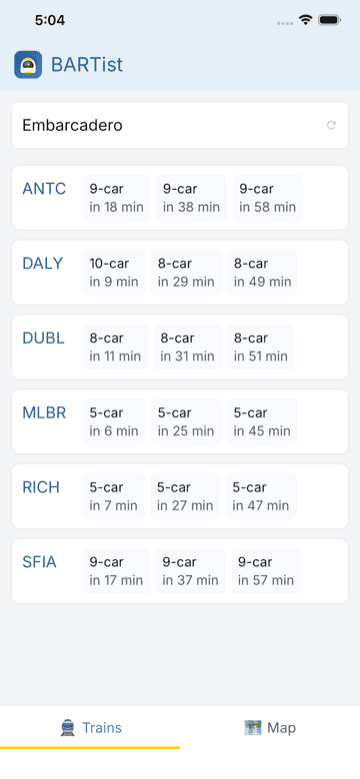
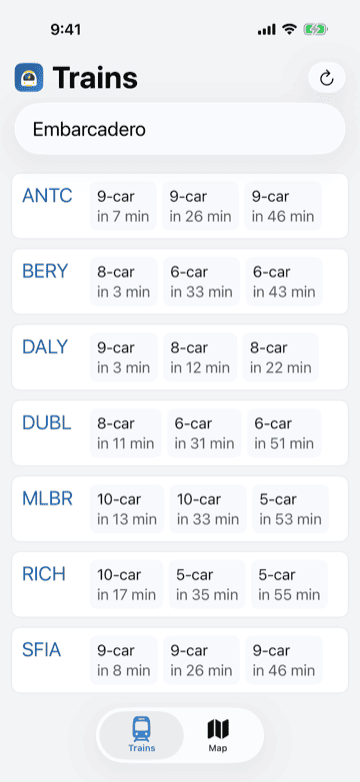
New ios native post, rearrange assets in previous post

diff --git a/public/ios-native/index.html b/public/ios-native/index.html
@@ -1,0 +1,44 @@
+<!DOCTYPE html>
+<html lang="en">
+<head>
+  <meta charset="utf-8">
+  <meta name="viewport" content="width=device-width, initial-scale=1">
+  <meta name="theme-color" content="#e3eef8">
+  <title>Native iOS app, version 1.1</title>
+  <link rel="icon" href="/assets/favicon.svg" type="image/svg+xml">
+  <link rel="stylesheet" href="/assets/style.css">
+</head>
+<body>
+  <div class="app">
+    <header class="app-header">
+      <a class="brand" href="/">
+        <img class="brand-icon" src="/assets/bartist-icon.svg" width="32" height="32" alt="">
+        <span class="site-title">BARTist</span>
+      </a>
+    </header>
+    <main>
+<article>
+<h1>Native iOS app, version 1.1</h1>
+<time datetime="2026-10-15">2026-10-15</time>
+<p>BARTist version 1.1 is now an iOS native app implemented in Swift.</p>
+<p><a class="app-store" href="https://apps.apple.com/us/app/bartist/id6816738607"><img src="/assets/download-on-the-app-store.svg" alt="Download on the App Store" width="120" height="40"></a></p>
+
+<p>The <a href="../ios-app/">first App Store release</a> was written using the cross platform <a href="https://tauri.app/">Tauri</a> framework. It worked well, but fell just a bit short of other native apps - pull to refresh, tabs, pinch to zoom were just a bit clunkier and less fitting. It&#39;s time for a real native iOS app. Given that BARTist is simple, so was the rewrite.</p>
+<p>The trains tab provides the same dense view of real time train departure information grouped by destination. Note the native tabs and buttons. Also, it now supports the same pull to refresh feel you expect in iOS apps:</p>
+<p><img src="./bartist-trains-ios-native.png" alt="Train departures at Embarcadero"></p>
+<p>Station picker also has a native iOS look and now supports gestures for closing the selection modal:</p>
+<p><img src="./bartist-stations-ios-native.png" alt="Station picker"></p>
+<p>And the system map, still with the day/night toggle, gives you a buttery smooth pinch to zoom:</p>
+<p><img src="./bartist-map-ios-native.png" alt="BART system map"></p>
+<p>The same app, better UX. Still no ads, accounts, subscriptions, tracking, or analytics. It&#39;s open source and the <a href="https://github.com/unix1/bartist">code is on GitHub</a>. Enjoy!</p>
+
+</article>
+    </main>
+    <footer class="app-footer">
+      <p>© BARTist</p>
+      <p><a href="/privacy/">privacy</a></p>
+      <p class="credit"><a href="https://blug.blog">blug.blog</a></p>
+    </footer>
+  </div>
+</body>
+</html>

diff --git a/public/index.html b/public/index.html
@@ -18,19 +18,20 @@
     </header>
     <main>
 <section class="listing-intro">
-<p>BARTist is an app for real-time BART train departure times. Now available on iPhone.</p>
+<p>BARTist is an app for real-time BART train departure times for iPhone.</p>
 <p><a class="app-store" href="https://apps.apple.com/us/app/bartist/id6816738607"><img src="/assets/download-on-the-app-store.svg" alt="Download on the App Store" width="120" height="40"></a></p>
 
 <div class="screenshot-row">
-<a href="/bartist-trains.png"><img src="/bartist-trains-sm.png" alt="Train departures at Embarcadero" width="360" height="779"></a>
-<a href="/bartist-stations.png"><img src="/bartist-stations-sm.png" alt="Station picker" width="360" height="779"></a>
-<a href="/bartist-map.png"><img src="/bartist-map-sm.png" alt="BART system map" width="360" height="779"></a>
+<a href="/bartist-trains.png"><img src="/bartist-trains-sm.png" alt="Train departures at Embarcadero" width="360" height="782"></a>
+<a href="/bartist-stations.png"><img src="/bartist-stations-sm.png" alt="Station picker" width="360" height="782"></a>
+<a href="/bartist-map.png"><img src="/bartist-map-sm.png" alt="BART system map" width="360" height="782"></a>
 </div>
 
 <p>BARTist is open source. Contributions are welcome! Visit the <a href="https://github.com/unix1/bartist">BARTist GitHub repo</a>.</p>
 </section>
 <h1>News</h1>
 <ul class="post-list">
+  <li><a href="ios-native/"><time datetime="2026-10-15">2026-10-15</time> <span>Native iOS app, version 1.1</span></a></li>
   <li><a href="ios-app/"><time datetime="2026-10-08">2026-10-08</time> <span>BARTist is on the App Store!</span></a></li>
   <li><a href="history-android-qml/"><time datetime="2026-09-28">2026-09-28</time> <span>History: Android QML app</span></a></li>
   <li><a href="history-ubuntu-touch/"><time datetime="2026-09-27">2026-09-27</time> <span>History: Ubuntu Touch app</span></a></li>

diff --git a/public/ios-app/index.html b/public/ios-app/index.html
@@ -24,15 +24,15 @@
 <p><a class="app-store" href="https://apps.apple.com/us/app/bartist/id6816738607"><img src="/assets/download-on-the-app-store.svg" alt="Download on the App Store" width="120" height="40"></a></p>
 
 <p>It does what I want on my commute: display live BART train departure times. Pick a station, see next few trains by destination with car length and minutes until each departure.</p>
-<p><img src="/bartist-trains.png" alt="Train departures at Embarcadero"></p>
+<p><img src="./bartist-trains-ios.png" alt="Train departures at Embarcadero"></p>
 <p>What do I mean by being back? Read its history.</p>
 <p>First, I <a href="../history-ubuntu-touch/">wrote it for Ubuntu Touch</a> but then Canonical shut down their entire mobile ecosystem.</p>
 <p>Later I <a href="../history-android-qml/">rewrote it for Android</a> using QML/QtQuick but after some time Google pulled it from Play Store for a missed minor OpenSSL patch.</p>
 <p>And now BARTist has its third home on Apple&#39;s App Store, staying true to its original UX.</p>
 <p>This is the station picker on iPhone.</p>
-<p><img src="/bartist-stations.png" alt="Station picker"></p>
+<p><img src="./bartist-stations-ios.png" alt="Station picker"></p>
 <p>And here is the system map, with the day/night toggle for respective service coverage.</p>
-<p><img src="/bartist-map.png" alt="BART system map"></p>
+<p><img src="./bartist-map-ios.png" alt="BART system map"></p>
 <p>It uses <a href="https://www.bart.gov/schedules/developers/api">BART&#39;s official API</a>. No ads, accounts, subscriptions, tracking, or analytics. The <a href="https://github.com/unix1/bartist">code is on GitHub</a>. Feedback and contributions are welcome.</p>
 
 </article>

diff --git a/scripts/config.js b/scripts/config.js
@@ -2,14 +2,14 @@ export const SITE_HEADER = "BARTist";
 export const SITE_FOOTER = "© BARTist";
 export const LISTING_HEADING = "News";
 // Markdown shown above the post list on the home page. Empty string omits it.
-export const LISTING_INTRO = `BARTist is an app for real-time BART train departure times. Now available on iPhone.
+export const LISTING_INTRO = `BARTist is an app for real-time BART train departure times for iPhone.
 
 <p><a class="app-store" href="https://apps.apple.com/us/app/bartist/id6816738607"><img src="/assets/download-on-the-app-store.svg" alt="Download on the App Store" width="120" height="40"></a></p>
 
 <div class="screenshot-row">
-<a href="/bartist-trains.png"><img src="/bartist-trains-sm.png" alt="Train departures at Embarcadero" width="360" height="779"></a>
-<a href="/bartist-stations.png"><img src="/bartist-stations-sm.png" alt="Station picker" width="360" height="779"></a>
-<a href="/bartist-map.png"><img src="/bartist-map-sm.png" alt="BART system map" width="360" height="779"></a>
+<a href="/bartist-trains.png"><img src="/bartist-trains-sm.png" alt="Train departures at Embarcadero" width="360" height="782"></a>
+<a href="/bartist-stations.png"><img src="/bartist-stations-sm.png" alt="Station picker" width="360" height="782"></a>
+<a href="/bartist-map.png"><img src="/bartist-map-sm.png" alt="BART system map" width="360" height="782"></a>
 </div>
 
 BARTist is open source. Contributions are welcome! Visit the [BARTist GitHub repo](https://github.com/unix1/bartist).`;

diff --git a/public/ios-native/index.md b/public/ios-native/index.md
@@ -1,0 +1,24 @@
+---
+title: Native iOS app, version 1.1
+date: 2026-10-15
+---
+
+BARTist version 1.1 is now an iOS native app implemented in Swift.
+
+<p><a class="app-store" href="https://apps.apple.com/us/app/bartist/id6816738607"><img src="/assets/download-on-the-app-store.svg" alt="Download on the App Store" width="120" height="40"></a></p>
+
+The [first App Store release](../ios-app/) was written using the cross platform [Tauri](https://tauri.app/) framework. It worked well, but fell just a bit short of other native apps - pull to refresh, tabs, pinch to zoom were just a bit clunkier and less fitting. It's time for a real native iOS app. Given that BARTist is simple, so was the rewrite.
+
+The trains tab provides the same dense view of real time train departure information grouped by destination. Note the native tabs and buttons. Also, it now supports the same pull to refresh feel you expect in iOS apps:
+
+![Train departures at Embarcadero](./bartist-trains-ios-native.png)
+
+Station picker also has a native iOS look and now supports gestures for closing the selection modal:
+
+![Station picker](./bartist-stations-ios-native.png)
+
+And the system map, still with the day/night toggle, gives you a buttery smooth pinch to zoom:
+
+![BART system map](./bartist-map-ios-native.png)
+
+The same app, better UX. Still no ads, accounts, subscriptions, tracking, or analytics. It's open source and the [code is on GitHub](https://github.com/unix1/bartist). Enjoy!

diff --git a/public/ios-app/index.md b/public/ios-app/index.md
@@ -9,7 +9,7 @@ BARTist is back! This time for iPhone.
 
 It does what I want on my commute: display live BART train departure times. Pick a station, see next few trains by destination with car length and minutes until each departure.
 
-![Train departures at Embarcadero](/bartist-trains.png)
+![Train departures at Embarcadero](./bartist-trains-ios.png)
 
 What do I mean by being back? Read its history.
 
@@ -21,10 +21,10 @@ And now BARTist has its third home on Apple's App Store, staying true to its ori
 
 This is the station picker on iPhone.
 
-![Station picker](/bartist-stations.png)
+![Station picker](./bartist-stations-ios.png)
 
 And here is the system map, with the day/night toggle for respective service coverage.
 
-![BART system map](/bartist-map.png)
+![BART system map](./bartist-map-ios.png)
 
 It uses [BART's official API](https://www.bart.gov/schedules/developers/api). No ads, accounts, subscriptions, tracking, or analytics. The [code is on GitHub](https://github.com/unix1/bartist). Feedback and contributions are welcome.
